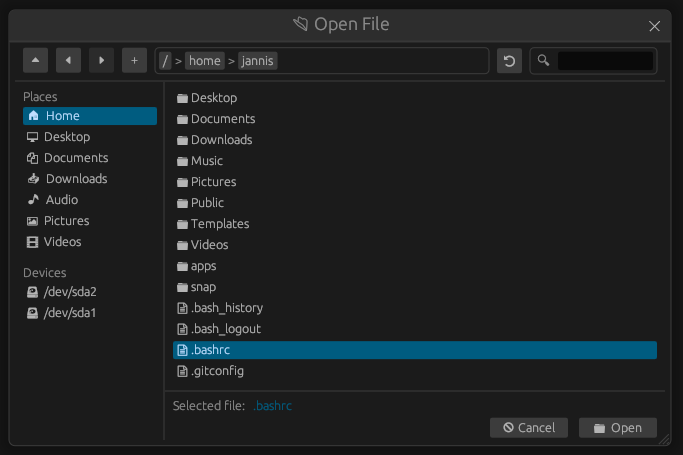
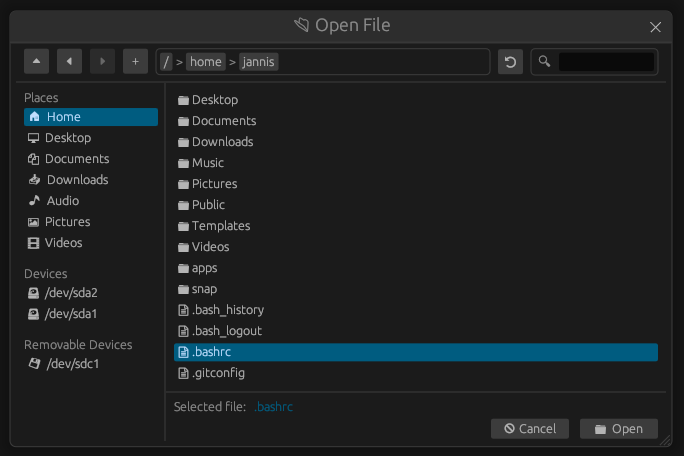
Update CHANGELOG.md and demo image

diff --git a/CHANGELOG.md b/CHANGELOG.md
@@ -10,11 +10,13 @@
   - The default minimum window size has been further reduced
 - Added an error icon before the error message when creating a folder [#32](https://github.com/fluxxcode/egui-file-dialog/pull/32) \
   ![Screenshot_20240218_172105](https://github.com/fluxxcode/egui-file-dialog/assets/55352293/fa4acc59-1297-4d59-bfd6-277d50584cc6)
+- Removable devices are now listed in a separate devices section [#34](https://github.com/fluxxcode/egui-file-dialog/pull/34)
 
 ### 📚 Documentation
 - Fix typos in the documentation [#29](https://github.com/fluxxcode/egui-file-dialog/pull/29)
 - Fix eframe version in the example in README.md [#30](https://github.com/fluxxcode/egui-file-dialog/pull/30)
 - Added “Currently missing features” section to README.md and minor improvements [#31](https://github.com/fluxxcode/egui-file-dialog/pull/31)
+- Updated example screenshot in `README.md` to include new "Removable Devices" section [#34](https://github.com/fluxxcode/egui-file-dialog/pull/34)
 
 ## 2024-02-07 - v0.2.0 - API improvements
 ### 🚨 Breaking Changes
